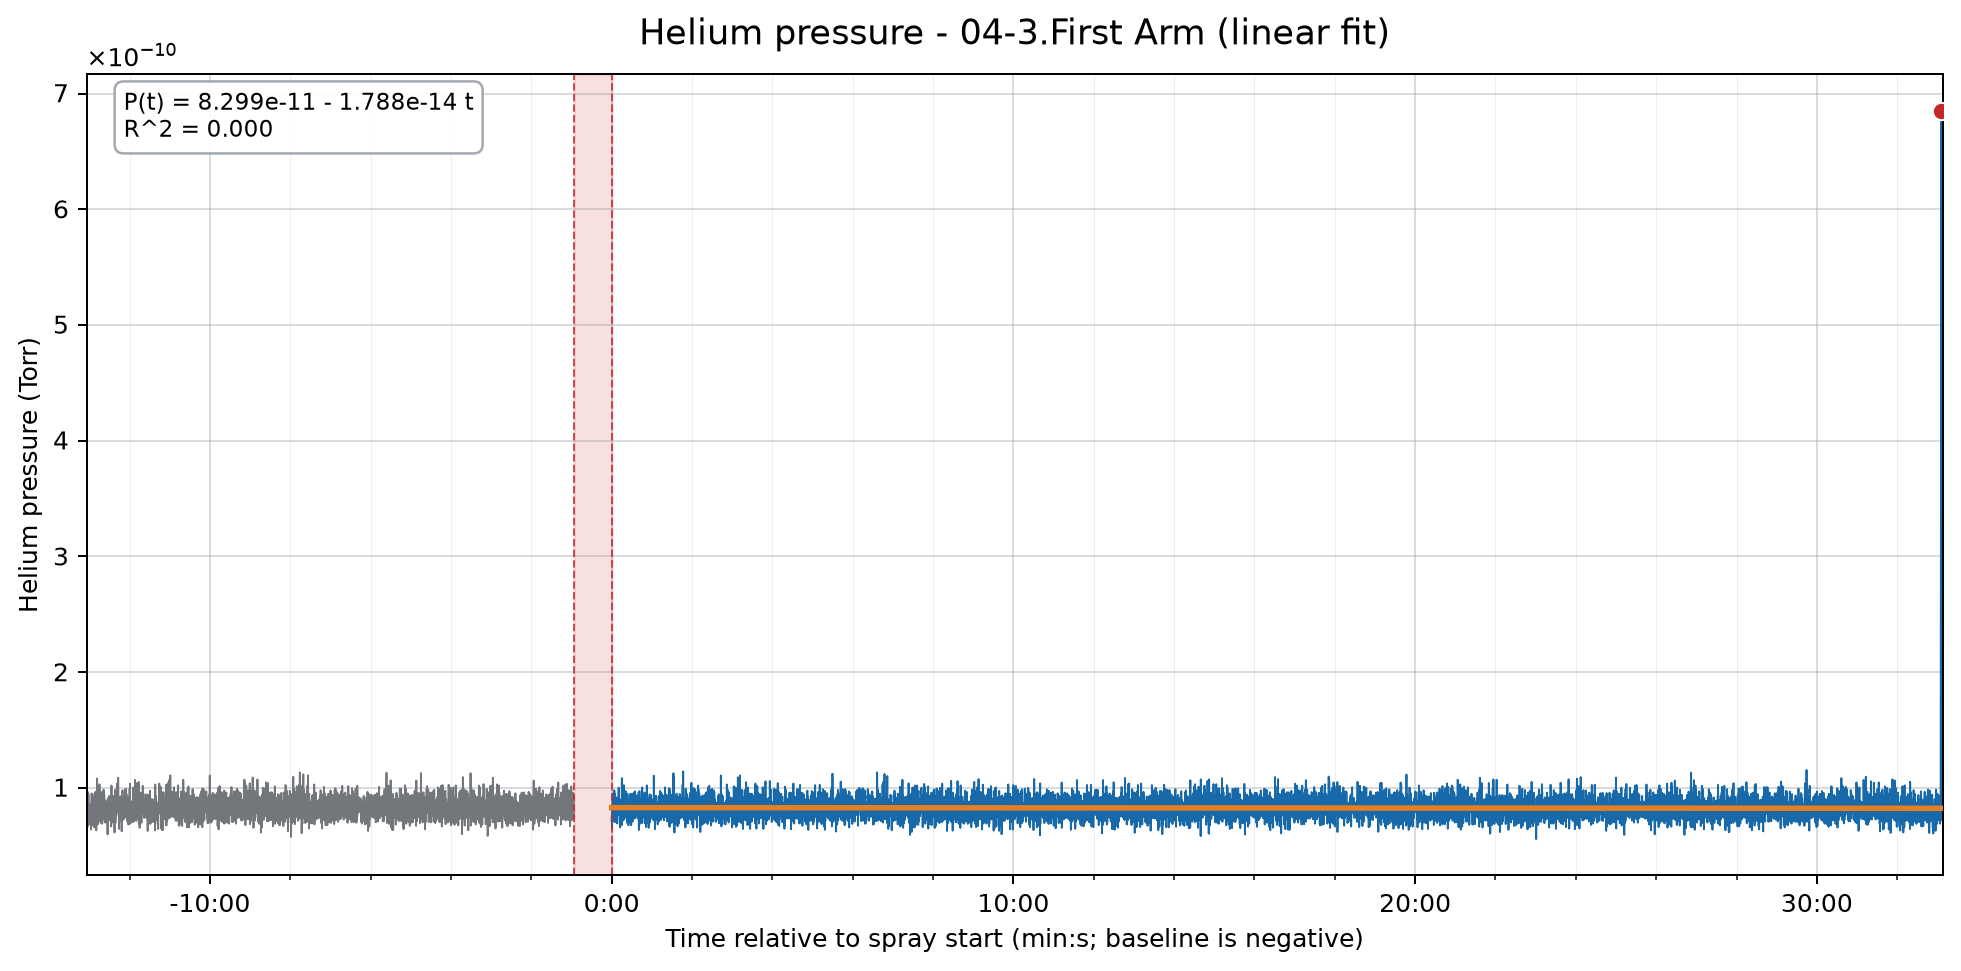
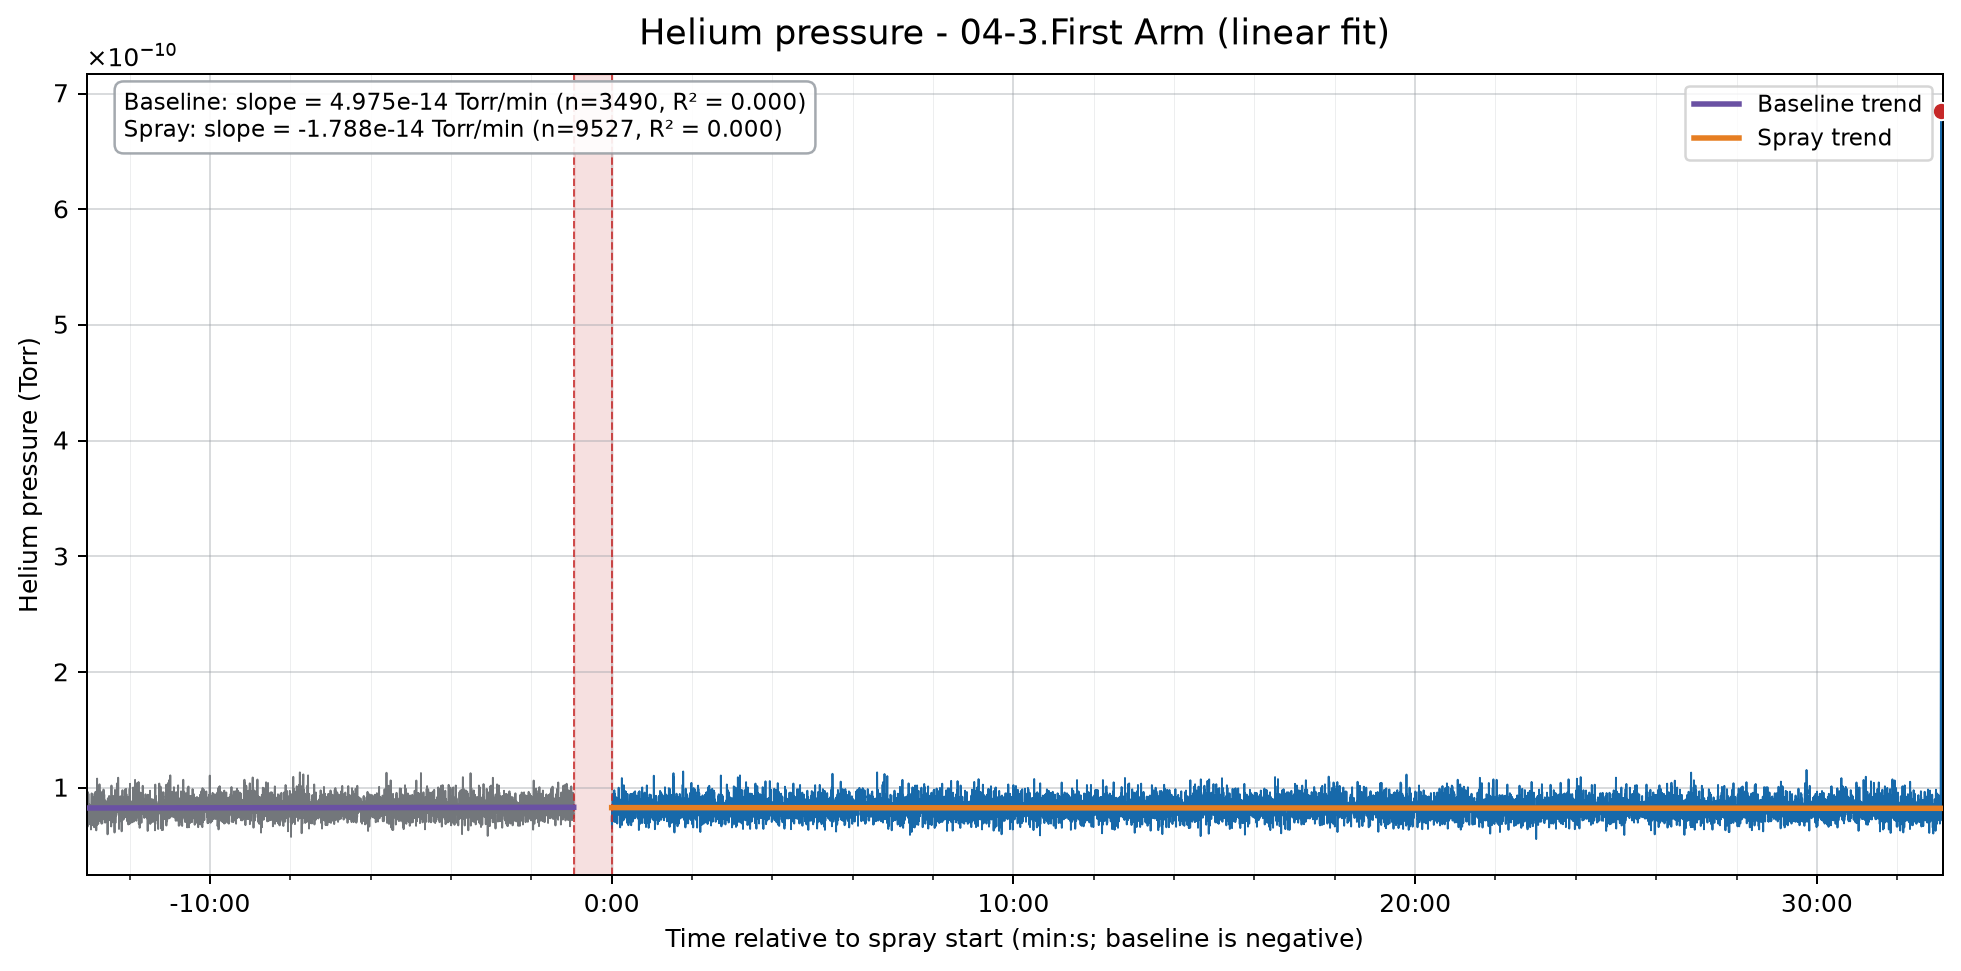
10.13_re

Changed region(s): [[0.0622, 0.0618, 0.4355, 0.1854], [0.8399, 0.0927, 0.9954, 0.1854], [0.0622, 0.8033, 0.28, 0.8342]]

diff --git a/rga_analyze/pipeline.py b/rga_analyze/pipeline.py
@@ -175,7 +175,80 @@ def plot_location(
         ax.axvline(left, color="#c62828", linewidth=0.8, alpha=0.8, linestyle="--")
         ax.axvline(right, color="#c62828", linewidth=0.8, alpha=0.8, linestyle="--")
 
-    if fit_degree is not None:
+    fit_name = "linear" if fit_degree == 1 else "quadratic"
+    if fit_degree == 1 and has_baseline:
+        fit_summaries = []
+        fit_colors = {"baseline": "#6a51a3", "spray": "#e67e22"}
+        unit_label = units[0] if len(units) == 1 else "pressure"
+        for phase in ("baseline", "spray"):
+            fit_data = data.loc[
+                (phases == phase) & data["pressure"].notna()
+            ]
+            if len(fit_data) < 2:
+                fit_summaries.append(f"{phase.title()}: not enough samples for a fit")
+                continue
+
+            phase_start = fit_data["timestamp"].min()
+            fit_minutes_data = (
+                fit_data["timestamp"] - phase_start
+            ).dt.total_seconds() / 60
+            fit = np.polynomial.Polynomial.fit(
+                fit_minutes_data.to_numpy(dtype=float),
+                fit_data["pressure"].to_numpy(dtype=float),
+                1,
+            ).convert()
+            phase_start_minutes = (phase_start - start).total_seconds() / 60
+            fit_minutes = np.linspace(
+                float(phase_start_minutes),
+                float(
+                    (fit_data["timestamp"].max() - start).total_seconds() / 60
+                ),
+                500,
+            )
+            ax.plot(
+                fit_minutes * 60,
+                fit.coef[0] + fit.coef[1] * (fit_minutes - phase_start_minutes),
+                color=fit_colors[phase],
+                linewidth=2.2,
+                zorder=4,
+                label=f"{phase.title()} trend",
+            )
+            pressures = fit_data["pressure"].to_numpy(dtype=float)
+            residual_sum_squares = float(
+                np.sum((pressures - fit(fit_minutes_data)) ** 2)
+            )
+            total_sum_squares = float(np.sum((pressures - pressures.mean()) ** 2))
+            r_squared = (
+                1 - residual_sum_squares / total_sum_squares
+                if total_sum_squares > 0
+                else None
+            )
+            r_squared_label = (
+                f", R² = {r_squared:.3f}" if r_squared is not None else ""
+            )
+            fit_summaries.append(
+                f"{phase.title()}: slope = {fit.coef[1]:.3e} "
+                f"{unit_label}/min (n={len(fit_data)}{r_squared_label})"
+            )
+
+        ax.legend(loc="best", fontsize=9)
+        ax.text(
+            0.02,
+            0.98,
+            "\n".join(fit_summaries),
+            transform=ax.transAxes,
+            va="top",
+            ha="left",
+            fontsize=9,
+            bbox={
+                "boxstyle": "round,pad=0.4",
+                "facecolor": "white",
+                "edgecolor": "#9aa0a6",
+                "alpha": 0.9,
+            },
+            zorder=6,
+        )
+    elif fit_degree is not None:
         fit_data = (
             data.loc[(data["phase"] == "spray") & data["pressure"].notna()]
             if "phase" in data
@@ -194,7 +267,6 @@ def plot_location(
             float(fit_minutes_data.max()),
             500,
         )
-        fit_name = "linear" if fit_degree == 1 else "quadratic"
         ax.plot(
             fit_minutes * 60,
             fit(fit_minutes),

diff --git a/tests/test_pipeline.py b/tests/test_pipeline.py
@@ -1,13 +1,16 @@
 import tempfile
 import unittest
 from pathlib import Path
+from unittest.mock import patch
 
 import numpy as np
 import pandas as pd
+import matplotlib.pyplot as plt
 
 from rga_analyze.pipeline import (
     _isolated_pressure_spike_mask,
     _read_helium_file,
+    plot_location,
     read_helium_file,
 )
 
@@ -106,6 +109,67 @@ class IsolatedPressureSpikeTests(unittest.TestCase):
         )
 
         self.assertFalse(_isolated_pressure_spike_mask(data).any())
+
+
+class LinearPhaseTrendTests(unittest.TestCase):
+    def test_plots_and_reports_separate_baseline_and_spray_slopes(self) -> None:
+        spray_start = pd.Timestamp("2026-10-08 15:00:00")
+        timestamps = [
+            spray_start - pd.Timedelta(minutes=9),
+            spray_start - pd.Timedelta(minutes=8),
+            spray_start - pd.Timedelta(minutes=7),
+            spray_start,
+            spray_start + pd.Timedelta(minutes=1),
+            spray_start + pd.Timedelta(minutes=2),
+        ]
+        data = pd.DataFrame(
+            {
+                "timestamp": timestamps,
+                "pressure": [
+                    1.0e-10,
+                    1.1e-10,
+                    1.2e-10,
+                    2.0e-10,
+                    2.2e-10,
+                    2.4e-10,
+                ],
+                "pressure_unit": ["Torr"] * 6,
+                "phase": ["baseline"] * 3 + ["spray"] * 3,
+                "spray_start": [spray_start] * 6,
+            }
+        )
+
+        with tempfile.TemporaryDirectory() as temporary_directory:
+            output = Path(temporary_directory) / "fit.png"
+            try:
+                with patch("rga_analyze.pipeline.plt.close"):
+                    plot_location(data, "test_location", output, fit_degree=1)
+                axes = plt.gcf().axes[0]
+                trend_lines = {
+                    line.get_label(): line
+                    for line in axes.lines
+                    if line.get_label() in {"Baseline trend", "Spray trend"}
+                }
+
+                self.assertTrue(output.is_file())
+                self.assertEqual(set(trend_lines), {"Baseline trend", "Spray trend"})
+                baseline_slope = np.polyfit(
+                    trend_lines["Baseline trend"].get_xdata() / 60,
+                    trend_lines["Baseline trend"].get_ydata(),
+                    1,
+                )[0]
+                spray_slope = np.polyfit(
+                    trend_lines["Spray trend"].get_xdata() / 60,
+                    trend_lines["Spray trend"].get_ydata(),
+                    1,
+                )[0]
+                self.assertAlmostEqual(baseline_slope, 1.0e-11, places=22)
+                self.assertAlmostEqual(spray_slope, 2.0e-11, places=22)
+                summary = "\n".join(text.get_text() for text in axes.texts)
+                self.assertIn("Baseline: slope = 1.000e-11 Torr/min (n=3", summary)
+                self.assertIn("Spray: slope = 2.000e-11 Torr/min (n=3", summary)
+            finally:
+                plt.close("all")
 
 
 if __name__ == "__main__":

diff --git a/README.md b/README.md
@@ -22,7 +22,7 @@ The terminal needs to be open in the project folder (the one containing `README.
 
 - Results are grouped under `analysis_outputs/<month.day>/`, based on the input folder name.
 - `plots/helium_by_location/`: raw, unfitted time-series graphs, one per location.
-- `plots/helium_by_location_fits/linear/`: raw readings with a straight-line fit to the spray phase, its equation, and R².
+- `plots/helium_by_location_fits/linear/`: raw readings with straight-line fits to baseline and spray when baseline data is available, with each phase's slope, sample count, and R². The spray fit covers the full spray phase; without baseline data, it shows only the spray fit.
 - `plots/helium_by_location_fits/quadratic/`: raw readings with a second-degree (quadratic) fit to the spray phase, its equation, and R².
 - `processed_data/amu4_by_location/`: the AMU-4 samples used for each graph, with timestamps, phase, source-file names, spray start, and elapsed time.
 
@@ -39,6 +39,6 @@ The run summary lists any CSV that did not contain usable chronological AMU-4 sa
 - The x-axis is time relative to spray start (`min:s`): baseline readings are negative and the first spray sample is at zero. No baseline subtraction is applied to the pressure values.
 - The red point marks the highest measured sample in the spray phase; it is a visual reference, not an automatic leak verdict.
 - Gaps longer than two seconds, including the baseline-to-spray transition, are left unconnected and marked in red.
-- Fit graphs add an orange curve and show its equation (with time from spray start in minutes) and R². The linear fit summarizes the average direction; the quadratic fit allows broad curvature. Both use only the spray phase, so neither is designed to isolate a short-lived peak. R² describes how much of the variation in the recorded pressures is captured by that fit; it does not establish a leak or its cause.
+- Linear fit graphs show separate baseline and spray lines when baseline data is available. Each slope is pressure change per minute, fitted only to that phase's readings; the spray fit covers the full spray phase. The sample count and R² are shown for each line. Quadratic fit graphs add an orange curve and show its equation (with time from spray start in minutes) and R²; the quadratic fit uses only the spray phase. Full-phase fits summarize the average direction and can hide short-lived peaks. R² describes how much of the variation in the recorded pressures is captured by a fit; it does not establish a leak or its cause.
 
 These fits are exploratory visual comparisons, not a leak-rate calculation or a leak verdict. Use the raw plots to identify a time range before interpreting a short rise or peak; a fit over the full spray phase can hide local behavior. Source files are never changed.
